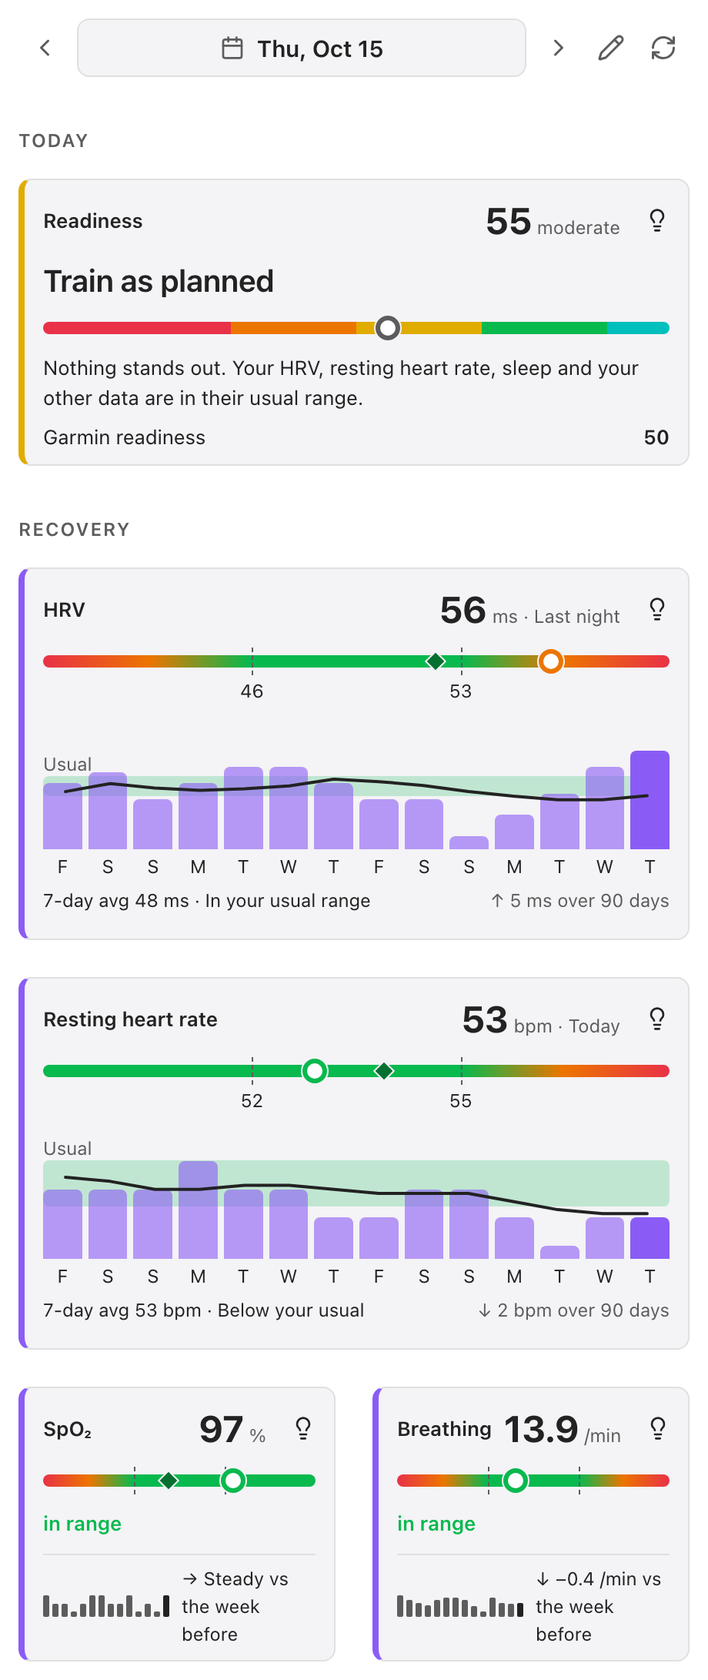
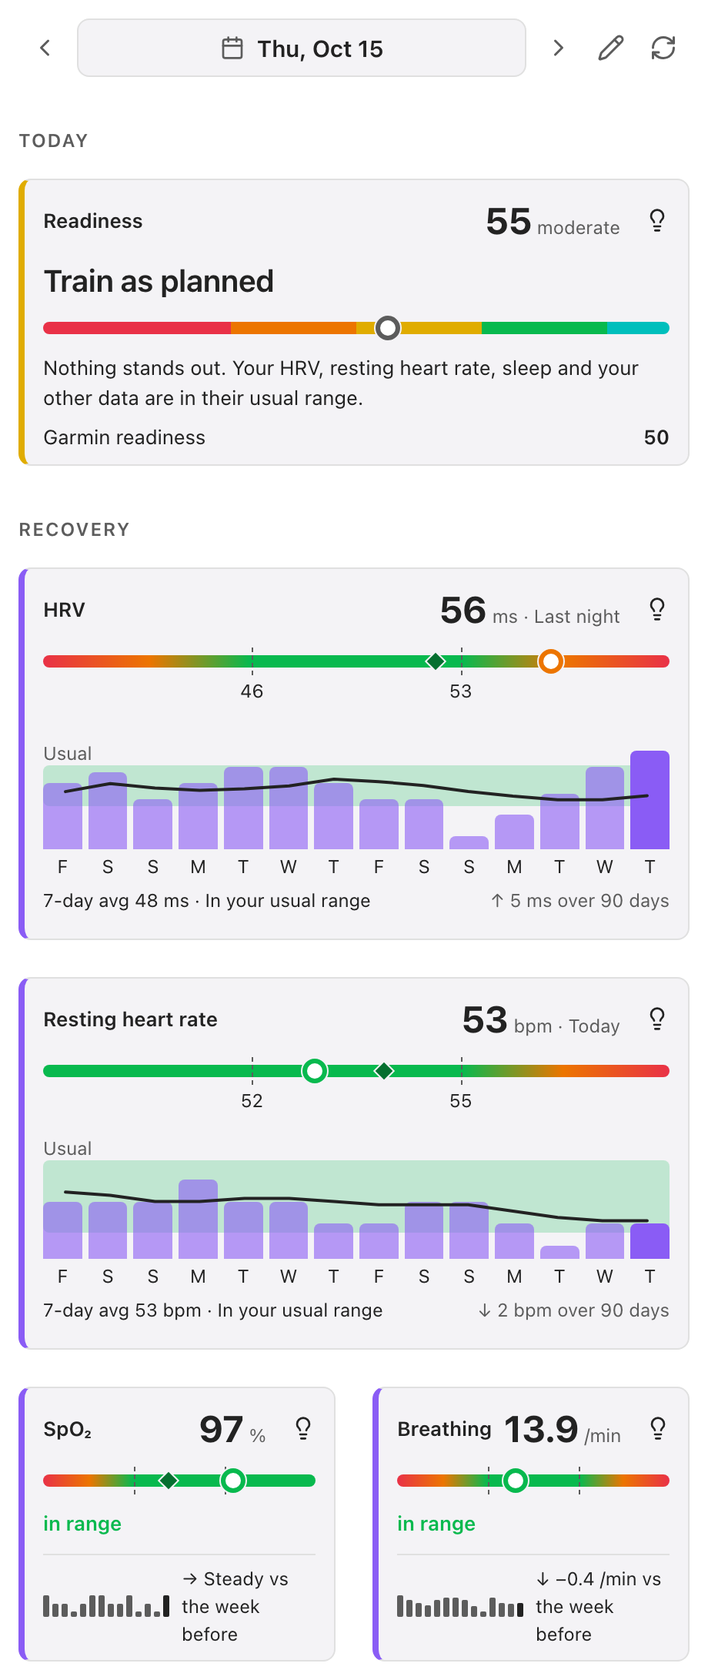
Week band as wide as the range bar's usual range (one standard deviation)

diff --git a/src/panel/cards/today-card.ts b/src/panel/cards/today-card.ts
@@ -4,6 +4,7 @@ import { formatNumber } from "../format";
 import { insightText, type Insight } from "../insights/registry";
 import { Signals } from "../insights/signals";
 import { pairedDays } from "../stats";
+import { USUAL_SD } from "../week";
 import type { DayIndex } from "../index";
 import { computeBattery } from "./battery-card";
 import { computeStress } from "./stress-card";
@@ -64,15 +65,15 @@ const clamp = (v: number, lo: number, hi: number): number => Math.min(hi, Math.m
 /** Where a day with no sign of strain or of a good recovery lands: the lower end of "moderate" would call every ordinary day tired. */
 const NEUTRAL_SCORE = 60;
 
-/** HRV is judged on the 7-night average in units of the smallest worthwhile change (half a standard deviation): the 7-night z counts double. */
+/** The average of 7 nights swings less than one night, so its distance from the usual counts double in the score. */
 const SWC_PER_SD = 2;
-/** The week is low below the smallest worthwhile change under the usual. */
-const WEEK_LOW_Z = -0.5;
+/** The week is low when its average is below the usual range of a week (one standard deviation, the edge of the band on the HRV card). */
+const WEEK_LOW_Z = -USUAL_SD;
 /** A single night this far below the usual is flagged unless a hard session explains it. */
 const NIGHT_LOW_Z = -2;
 
 /**
- * Own readiness: 60 + 10 z(HRV; the 7-night average in units of 0.5 sd when there are 4 nights, else the night) - 7 z(resting heart rate) - 4 per hour of sleep debt (at most 3 h) + 0.25 (battery peak - usual,
+ * Own readiness: 60 + 10 z(HRV; twice the distance of the 7-night average when there are 4 nights, else the night) - 7 z(resting heart rate) - 4 per hour of sleep debt (at most 3 h) + 0.25 (battery peak - usual,
  * between -8 and +8), 0 to 100. The z values are held between -2 and 2: HRV and resting heart rate move together, so a
  * far-out pair is one signal counted twice. Everything that depends on the usual range is scaled by `trust`, which
  * is below 1 while that range rests on fewer than 21 days, so a young range pulls the score towards the neutral

diff --git a/src/i18n/de.ts b/src/i18n/de.ts
@@ -370,7 +370,7 @@ export const de: Record<TranslationKeys, string> = {
 	panelWeekNotEnough: "Zu wenige Tage in dieser Woche für einen Durchschnitt",
 	panelWeekGap: "Uhr aus · {n} Tage",
 	panelWeekLegendBand: "Üblich",
-	panelHrvExplain: "Die Herzfrequenzvariabilität (HRV) ist die Schwankung zwischen den Herzschlägen und zeigt, wie gut du dich erholst. Eine einzelne Nacht kann stark schwanken, deshalb zeigt das Diagramm die letzten 14 Nächte mit dem Durchschnitt der letzten 7 Nächte als Linie. Das grüne Band ist das Übliche für deine Woche: dein eigener Durchschnitt der Nächte davor plus/minus eine halbe Standardabweichung. Dein üblicher Bereich für eine einzelne Nacht ist der Durchschnitt der letzten 30 Tage plus/minus eine Standardabweichung. Eine Nacht ohne Uhr wird ausgelassen und nie als niedrig gezählt. Werte weit außerhalb sind ein Anlass zum Hinsehen, keine Diagnose. Das ist keine medizinische Beratung.",
+	panelHrvExplain: "Die Herzfrequenzvariabilität (HRV) ist die Schwankung zwischen den Herzschlägen und zeigt, wie gut du dich erholst. Eine einzelne Nacht kann stark schwanken, deshalb zeigt das Diagramm die letzten 14 Nächte mit dem Durchschnitt der letzten 7 Nächte als Linie. Das grüne Band ist das Übliche für deine Woche: dein eigener Durchschnitt der Nächte davor plus/minus eine Standardabweichung. Dein üblicher Bereich für eine einzelne Nacht ist der Durchschnitt der letzten 30 Tage plus/minus eine Standardabweichung. Eine Nacht ohne Uhr wird ausgelassen und nie als niedrig gezählt. Werte weit außerhalb sind ein Anlass zum Hinsehen, keine Diagnose. Das ist keine medizinische Beratung.",
 	panelRestingHrTitle: "Ruhepuls",
 	panelRestingHrExplain: "Der Ruhepuls ist dein niedrigster stabiler Puls in Ruhe. Dein üblicher Bereich ist der Durchschnitt der letzten 30 Tage plus/minus eine Standardabweichung. Ein Wert deutlich darüber kann mit Stress, schlechtem Schlaf, Krankheit oder Müdigkeit zusammenhängen; ein niedrigerer Wert ist normalerweise unproblematisch. Das ist keine medizinische Beratung.",
 	panelSectionRecovery: "Erholung",

diff --git a/tests/panel-today.test.ts b/tests/panel-today.test.ts
@@ -47,7 +47,7 @@ describe("the readiness score", () => {
 	});
 
 	it("adds 10 per standard deviation of HRV and subtracts 7 per standard deviation of resting heart rate", async () => {
-		// the 7-night average counts in units of the smallest worthwhile change, half a standard deviation: +0.5 sd of HRV is +1 unit = 10
+		// the 7-night average counts double: +0.5 sd of HRV moves the score by 10
 		expect(computeToday(await index({ hrv: weekZ(0.5), resting_hr: 52 }), END, null).score).toBe(70);
 		expect(computeToday(await index({ hrv: USUAL, resting_hr: 54 }), END, null).score).toBe(53); // +1 sd of resting heart rate
 		expect(computeToday(await index({ hrv: weekZ(0.5), resting_hr: 50 }), END, null).score).toBe(77);
@@ -142,9 +142,9 @@ describe("the flags", () => {
 	const flags = async (today: Fm, rest: (ago: number) => Fm = () => ({})) => computeToday(await index({ hrv: USUAL, resting_hr: 52, ...today }, rest), END, null).flags;
 
 	it("flags a low HRV and a high resting heart rate beyond one standard deviation", async () => {
-		// the 7-night average: flagged half a standard deviation (the smallest worthwhile change) below the usual
-		expect(await flags({ hrv: weekZ(-0.6) })).toEqual(["hrv"]);
-		expect(await flags({ hrv: weekZ(-0.4) })).toEqual([]);
+		// the 7-night average: flagged below the usual range of a week, one standard deviation under the baseline
+		expect(await flags({ hrv: weekZ(-1.2) })).toEqual(["hrv"]);
+		expect(await flags({ hrv: weekZ(-0.8) })).toEqual([]);
 		expect(await flags({ resting_hr: 55 })).toEqual(["rhr"]);
 		expect(await flags({ resting_hr: 53.5 })).toEqual([]);
 	});
@@ -362,7 +362,7 @@ describe("the week, the single night and the hard session", () => {
 	});
 
 	it("is not fooled by a low week hiding in its own baseline", async () => {
-		const m = computeToday(await index({ hrv: weekZ(-1), resting_hr: 52 }), END, null);
+		const m = computeToday(await index({ hrv: weekZ(-1.5), resting_hr: 52 }), END, null);
 		expect(m.flags).toEqual(["hrv"]);
 		expect(m.facts.hrvWeek).toMatchObject({ nights: 7, low: true });
 	});

diff --git a/src/i18n/fr.ts b/src/i18n/fr.ts
@@ -369,7 +369,7 @@ export const fr: Record<TranslationKeys, string> = {
 	panelWeekNotEnough: "Pas assez de jours cette semaine pour une moyenne",
 	panelWeekGap: "Montre non portée · {n} jours",
 	panelWeekLegendBand: "Habituel",
-	panelHrvExplain: "La variabilité de la fréquence cardiaque (VFC) est la variation entre les battements et reflète votre récupération. Une nuit peut beaucoup varier : le graphique montre donc les 14 dernières nuits avec la moyenne des 7 dernières en ligne. La bande verte est l’habituel de votre semaine : votre propre moyenne des nuits précédentes, plus ou moins un demi-écart type. Votre plage habituelle pour une nuit est la moyenne des 30 derniers jours plus ou moins un écart type. Une nuit sans la montre est ignorée, jamais comptée comme basse. Les valeurs très éloignées méritent attention, pas un diagnostic. Ceci n’est pas un avis médical.",
+	panelHrvExplain: "La variabilité de la fréquence cardiaque (VFC) est la variation entre les battements et reflète votre récupération. Une nuit peut beaucoup varier : le graphique montre donc les 14 dernières nuits avec la moyenne des 7 dernières en ligne. La bande verte est l’habituel de votre semaine : votre propre moyenne des nuits précédentes, plus ou moins un écart type. Votre plage habituelle pour une nuit est la moyenne des 30 derniers jours plus ou moins un écart type. Une nuit sans la montre est ignorée, jamais comptée comme basse. Les valeurs très éloignées méritent attention, pas un diagnostic. Ceci n’est pas un avis médical.",
 	panelRestingHrTitle: "Fréquence cardiaque au repos",
 	panelRestingHrExplain: "La fréquence cardiaque au repos est votre pouls stable le plus bas au repos. Votre plage habituelle est la moyenne des 30 derniers jours plus ou moins un écart type. Une valeur nettement supérieure peut accompagner le stress, un mauvais sommeil, une maladie ou la fatigue ; une valeur plus basse est en général normale. Ceci n’est pas un avis médical.",
 	panelSectionRecovery: "Récupération",

diff --git a/src/panel/week.ts b/src/panel/week.ts
@@ -15,8 +15,11 @@ const BASELINE_DAYS = 60;
 const BASELINE_MIN = 14;
 /** Smallest spread of ln(value): about 4 percent of the level (HRV), so a very steady sleeper does not get a razor-thin band. */
 export const LN_SD_FLOOR = 0.04;
-/** The band is the smallest worthwhile change: half a standard deviation of the baseline (Plews et al. 2012, Javaloyes et al. 2019). */
-export const SWC_SD = 0.5;
+/**
+ * The usual range of a week is one standard deviation of the baseline, the same width as the range bar of the night, so "usual" means one thing on the card.
+ * The research criterion (smallest worthwhile change, Plews et al. 2012, Javaloyes et al. 2019) is half of that; this card is deliberately less sensitive, to give fewer false alarms.
+ */
+export const USUAL_SD = 1;
 /** A run of this many nights without a value is drawn as a gap. */
 const GAP_MIN = 3;
 
@@ -33,7 +36,7 @@ export interface WeekModel {
 	avg: (number | null)[];
 	/** Nights with a value among the 7 ending on the shown night. */
 	coverage: number;
-	/** Usual range for a week in ms: the baseline mean +/- half a standard deviation, null while the baseline is too young. */
+	/** Usual range for a week in ms: the baseline mean +/- one standard deviation, null while the baseline is too young. */
 	band: { low: number; mean: number; high: number } | null;
 	/** The 7-night average of the shown night, in ms. */
 	average: number | null;
@@ -71,7 +74,7 @@ export function computeWeek(index: DayIndex, key: string, date: string, sdFloor:
 		if (v !== null) earlier.push(v);
 	}
 	const b = baseline(earlier, BASELINE_MIN, sdFloor);
-	const band = b ? { low: Math.exp(b.mean - SWC_SD * b.sd), mean: Math.exp(b.mean), high: Math.exp(b.mean + SWC_SD * b.sd) } : null;
+	const band = b ? { low: Math.exp(b.mean - USUAL_SD * b.sd), mean: Math.exp(b.mean), high: Math.exp(b.mean + USUAL_SD * b.sd) } : null;
 
 	const last = avgLn(nights.length - 1 + offset);
 	const coverage = nights.slice(-WEEK_WINDOW).filter((v) => v !== null).length;

diff --git a/src/i18n/es.ts b/src/i18n/es.ts
@@ -369,7 +369,7 @@ export const es: Record<TranslationKeys, string> = {
 	panelWeekNotEnough: "Pocos días esta semana para un promedio",
 	panelWeekGap: "Reloj sin usar · {n} días",
 	panelWeekLegendBand: "Habitual",
-	panelHrvExplain: "La variabilidad de la frecuencia cardíaca (VFC) es la variación entre latidos y refleja lo bien que te recuperas. Una noche puede variar mucho, por eso el gráfico muestra las últimas 14 noches con el promedio de las últimas 7 como una línea. La banda verde es lo habitual para tu semana: tu propio promedio de las noches anteriores más o menos media desviación estándar. Tu rango habitual para una noche es el promedio de los últimos 30 días más o menos una desviación estándar. Una noche sin el reloj se omite y nunca cuenta como baja. Los valores muy fuera merecen atención, no un diagnóstico. Esto no es un consejo médico.",
+	panelHrvExplain: "La variabilidad de la frecuencia cardíaca (VFC) es la variación entre latidos y refleja lo bien que te recuperas. Una noche puede variar mucho, por eso el gráfico muestra las últimas 14 noches con el promedio de las últimas 7 como una línea. La banda verde es lo habitual para tu semana: tu propio promedio de las noches anteriores más o menos una desviación estándar. Tu rango habitual para una noche es el promedio de los últimos 30 días más o menos una desviación estándar. Una noche sin el reloj se omite y nunca cuenta como baja. Los valores muy fuera merecen atención, no un diagnóstico. Esto no es un consejo médico.",
 	panelRestingHrTitle: "Frecuencia cardíaca en reposo",
 	panelRestingHrExplain: "La frecuencia cardíaca en reposo es tu pulso estable más bajo en reposo. Tu rango habitual es el promedio de los últimos 30 días más o menos una desviación estándar. Un valor muy por encima puede acompañar al estrés, el mal sueño, una enfermedad o el cansancio; uno más bajo suele estar bien. Esto no es un consejo médico.",
 	panelSectionRecovery: "Recuperación",

diff --git a/src/i18n/ja.ts b/src/i18n/ja.ts
@@ -369,7 +369,7 @@ export const ja: Record<TranslationKeys, string> = {
 	panelWeekNotEnough: "今週は平均を出すには日数が足りません",
 	panelWeekGap: "未装着 · {n}日",
 	panelWeekLegendBand: "通常",
-	panelHrvExplain: "心拍変動（HRV）は心拍間隔のゆらぎで、回復の度合いを反映します。1晩だけではぶれやすいため、グラフには直近14晩と、直近7晩の平均を線で表示します。緑の帯はその週の通常範囲で、その前の晩の自分の平均±標準偏差の半分です。1晩の通常範囲は、直近30日の平均±標準偏差1つ分です。時計を着けなかった晩は除外され、低い晩としては数えません。大きく外れた値は診断ではなく気づきの目安です。医療上のアドバイスではありません。",
+	panelHrvExplain: "心拍変動（HRV）は心拍間隔のゆらぎで、回復の度合いを反映します。1晩だけではぶれやすいため、グラフには直近14晩と、直近7晩の平均を線で表示します。緑の帯はその週の通常範囲で、その前の晩の自分の平均±標準偏差1つ分です。1晩の通常範囲は、直近30日の平均±標準偏差1つ分です。時計を着けなかった晩は除外され、低い晩としては数えません。大きく外れた値は診断ではなく気づきの目安です。医療上のアドバイスではありません。",
 	panelRestingHrTitle: "安静時心拍数",
 	panelRestingHrExplain: "安静時心拍数は、安静時の最も低く安定した心拍数です。通常の範囲は、直近30日の平均±標準偏差1つ分です。大きく上回る場合は、ストレス、睡眠不足、病気、疲れなどが関係していることがあります。低い値は通常問題ありません。医療上のアドバイスではありません。",
 	panelSectionRecovery: "回復",

diff --git a/src/i18n/en.ts b/src/i18n/en.ts
@@ -368,7 +368,7 @@ export const en = {
 	panelWeekNotEnough: "Not enough days this week for an average",
 	panelWeekGap: "Watch off · {n} days",
 	panelWeekLegendBand: "Usual",
-	panelHrvExplain: "Heart rate variability (HRV) is the variation between heartbeats and reflects how well you recover. One night can swing, so the chart shows the last 14 nights with the average of the last 7 nights as a line. The green band is what is usual for your week: your own average of the nights before it, plus or minus half a standard deviation. Your usual range for a single night is the average of the last 30 days plus or minus one standard deviation. A night without the watch is left out, never counted as low. Values far outside are worth noticing, not diagnosing. This is not medical advice.",
+	panelHrvExplain: "Heart rate variability (HRV) is the variation between heartbeats and reflects how well you recover. One night can swing, so the chart shows the last 14 nights with the average of the last 7 nights as a line. The green band is what is usual for your week: your own average of the nights before it, plus or minus one standard deviation. Your usual range for a single night is the average of the last 30 days plus or minus one standard deviation. A night without the watch is left out, never counted as low. Values far outside are worth noticing, not diagnosing. This is not medical advice.",
 	panelRestingHrTitle: "Resting heart rate",
 	panelRestingHrExplain: "Resting heart rate is your lowest steady heart rate while you are still. Your usual range is the average of the last 30 days plus or minus one standard deviation. A value well above it can come with stress, poor sleep, illness or fatigue. A lower value is normally fine. This is not medical advice.",
 	panelSectionRecovery: "Recovery",

diff --git a/src/i18n/zh.ts b/src/i18n/zh.ts
@@ -369,7 +369,7 @@ export const zh: Record<TranslationKeys, string> = {
 	panelWeekNotEnough: "本周的天数太少，无法计算平均值",
 	panelWeekGap: "未佩戴 · {n} 天",
 	panelWeekLegendBand: "常规",
-	panelHrvExplain: "心率变异性（HRV）是心跳间隔的变化，反映你的恢复情况。单晚波动很大，所以图表显示最近 14 晚，并用一条线表示最近 7 晚的平均值。绿色区带是你这一周的常规范围：此前几晚的个人平均值加减半个标准差。单晚的常规范围是最近 30 天的平均值加减一个标准差。没戴手表的夜晚会被忽略，不会算作偏低。明显偏离的数值值得留意，但不是诊断。这不是医疗建议。",
+	panelHrvExplain: "心率变异性（HRV）是心跳间隔的变化，反映你的恢复情况。单晚波动很大，所以图表显示最近 14 晚，并用一条线表示最近 7 晚的平均值。绿色区带是你这一周的常规范围：此前几晚的个人平均值加减一个标准差。单晚的常规范围是最近 30 天的平均值加减一个标准差。没戴手表的夜晚会被忽略，不会算作偏低。明显偏离的数值值得留意，但不是诊断。这不是医疗建议。",
 	panelRestingHrTitle: "静息心率",
 	panelRestingHrExplain: "静息心率是你在休息时最低且稳定的心率。常规范围是最近 30 天的平均值加减一个标准差。明显偏高可能与压力、睡眠不足、生病或疲劳有关；偏低通常没有问题。这不是医疗建议。",
 	panelSectionRecovery: "恢复",

diff --git a/tests/panel-week.test.ts b/tests/panel-week.test.ts
@@ -50,7 +50,7 @@ describe("computeWeek", () => {
 		expect(w.z!).toBeLessThan(-3);
 	});
 
-	it("builds the band as the baseline mean +/- half a standard deviation, on the log scale", async () => {
+	it("builds the band as the baseline mean +/- one standard deviation, on the log scale", async () => {
 		const w = await weekOf((ago) => (ago % 2 === 0 ? 50 : 70));
 		const b = w.band!;
 		expect(b.low).toBeLessThan(b.mean);
@@ -59,9 +59,9 @@ describe("computeWeek", () => {
 		expect(b.high / b.mean).toBeCloseTo(b.mean / b.low, 6);
 	});
 
-	it("keeps the band at least 4 percent wide for a very steady sleeper", async () => {
+	it("keeps the band at least 8 percent wide for a very steady sleeper", async () => {
 		const w = await weekOf(() => 60);
-		expect(w.band!.high / w.band!.mean).toBeCloseTo(Math.exp(0.02), 6);
+		expect(w.band!.high / w.band!.mean).toBeCloseTo(Math.exp(0.04), 6);
 	});
 
 	it("has no band and no judgement while the baseline rests on fewer than 14 nights", async () => {

diff --git a/docs/panel-insights.md b/docs/panel-insights.md
@@ -21,9 +21,9 @@ The interpretation is deliberately kept under the light bulb so the cards stay u
 
 The Today card is a rule of thumb taken from the original concept, **not a validated score**. It is not calibrated against Garmin's readiness (which is shown next to it when the watch provides it).
 
-- **Score (0 to 100):** 60 + t x (10 x z(HRV) - 7 x z(resting heart rate) - 4 x sleep debt in hours (at most 3) + 0.25 x (body battery peak - usual peak, between -8 and +8)). A day with nothing unusual scores 60, so an ordinary day is moderate, not tired. The z values are held between -2 and 2 (HRV and resting heart rate move together, so a far-out pair is one signal counted twice) and use the user's own 30 day range. **HRV is judged on the 7-night average, not on one night:** z(HRV) is 2 x z7, where z7 is the distance of the geometric mean of the last 7 nights (the shown night included) from the baseline mean in standard deviations of ln(HRV), so a distance of 0.5 standard deviations (the smallest worthwhile change, see "Where the numbers come from") counts as 1 and moves the score by 10. With fewer than 4 of the 7 nights, or without a baseline of 14 nights, it falls back to the shown night against the 30 day range; a missing body battery leaves its term out. `t` is the trust in that range: the days with both HRV and resting heart rate divided by 21, at most 1, so a young range (a new watch, or a new account) pulls the score towards 60 instead of swinging it. The sleep debt is counted against the sleep the person usually gets (the median of the last 28 nights, kept between an hour under the need and the need; see the Sleep card), not against the general need, which would charge a short sleeper the same debt every day. `t` counts the days of the last 30 on which HRV *and* resting heart rate were both measured, so two ranges that cover different weeks (a watch that changed in between) do not add up to one. Without HRV, resting heart rate or the sleep debt there is no own score; neither is there one with fewer than 5 such days, nor without last night's sleep (a missing night would count as no debt and raise the score). When some of the last 7 nights have no sleep data the debt is a lower bound, which the card says ("The sleep debt rests on 5 of 7 nights ..."). The weights are a judgment call, not fitted to Garmin's readiness.
+- **Score (0 to 100):** 60 + t x (10 x z(HRV) - 7 x z(resting heart rate) - 4 x sleep debt in hours (at most 3) + 0.25 x (body battery peak - usual peak, between -8 and +8)). A day with nothing unusual scores 60, so an ordinary day is moderate, not tired. The z values are held between -2 and 2 (HRV and resting heart rate move together, so a far-out pair is one signal counted twice) and use the user's own 30 day range. **HRV is judged on the 7-night average, not on one night:** z(HRV) is 2 x z7, where z7 is the distance of the geometric mean of the last 7 nights (the shown night included) from the baseline mean in standard deviations of ln(HRV), counted double (the average of 7 nights swings less than one night), so a distance of 0.5 standard deviations moves the score by 10; it is held between -2 and 2 like the others. With fewer than 4 of the 7 nights, or without a baseline of 14 nights, it falls back to the shown night against the 30 day range; a missing body battery leaves its term out. `t` is the trust in that range: the days with both HRV and resting heart rate divided by 21, at most 1, so a young range (a new watch, or a new account) pulls the score towards 60 instead of swinging it. The sleep debt is counted against the sleep the person usually gets (the median of the last 28 nights, kept between an hour under the need and the need; see the Sleep card), not against the general need, which would charge a short sleeper the same debt every day. `t` counts the days of the last 30 on which HRV *and* resting heart rate were both measured, so two ranges that cover different weeks (a watch that changed in between) do not add up to one. Without HRV, resting heart rate or the sleep debt there is no own score; neither is there one with fewer than 5 such days, nor without last night's sleep (a missing night would count as no debt and raise the score). When some of the last 7 nights have no sleep data the debt is a lower bound, which the card says ("The sleep debt rests on 5 of 7 nights ..."). The weights are a judgment call, not fitted to Garmin's readiness.
 - **Bands:** 0-29 poor, 30-49 low, 50-69 moderate, 70-89 high, 90-100 prime.
-- **Flags:** HRV low (the 7-night average more than 0.5 standard deviations below the baseline, or the shown night more than 2 standard deviations below the 30 day range when no hard session explains it; with fewer than 4 nights of the week, the shown night more than 1 standard deviation below), resting heart rate high (not raised the morning after a hard session), sleep debt (against the usual sleep) above 2 hours, body battery peak more than 15 below usual, stress more than 10 above the 7 day average, breathing more than 1.5 standard deviations up, SpO2 below 94 percent, load ratio above 1.5.
+- **Flags:** HRV low (the 7-night average below the usual range of a week (more than 1 standard deviation below the baseline), or the shown night more than 2 standard deviations below the 30 day range when no hard session explains it; with fewer than 4 nights of the week, the shown night more than 1 standard deviation below), resting heart rate high (not raised the morning after a hard session), sleep debt (against the usual sleep) above 2 hours, body battery peak more than 15 below usual, stress more than 10 above the 7 day average, breathing more than 1.5 standard deviations up, SpO2 below 94 percent, load ratio above 1.5.
 - **Verdict:** rest (day off, walk and mobility) for 3 or more flags, raised breathing together with a high resting heart rate, or band poor or low once the range rests on 21 days (before that a low band alone gives "go easy"); train hard for band high or better with no flag; train as planned for band high or better with one flag or band moderate with none; go easy (zone 2) otherwise. **The morning after a hard session** the verdict is at most "go easy" (a rest verdict stays), and the night's low HRV and raised resting heart rate are not flagged. A hard session is one of yesterday that is not a recovery session and whose intensity is known (heart rate with a birth year, or at least 10 earlier sessions) with an intensity step of 3 or more, or a load (minutes times the intensity factor) of 70 or more. Without a known intensity the minutes alone do not make a session hard. The threshold is a starting value, not a validated one.
 
 ## How to add or change an interpretation
@@ -36,7 +36,7 @@ The Today card is a rule of thumb taken from the original concept, **not a valid
 ## Where the numbers come from
 
 - *Usual range*: the mean and standard deviation of the 30 days before the shown day, from 5 days of data on. From 8 values on, a value more than 5 robust spreads from the median (1.4826 times the median absolute deviation, but at least the floor below) is left out of the mean and the spread, unless that would leave out a quarter or more of the values (then the days are of two kinds, for example before and after a new watch, and none is an outlier): one sensor error or one day of fever would otherwise widen the range for a month. The trend line stays a plain mean of the last 7 days against the 7 before, and the 14 bars show every value, so a freak value stays visible there. Sleep stages count only nights with more than 0 minutes of the stage (a watch that does not record a stage sends 0, which is no reading). A number typed into a text property ("8000") is read as the number. (standard deviation floors: HRV 2 ms, resting heart rate 1.5 bpm, SpO2 0.7 percent, breathing 0.4 per minute, stress 5, steps 500, body battery peak 5).
-- *HRV week (HRV card and Today card)*: the 14 bars are the last 14 nights; the line is the rolling average of 7 nights (geometric mean, that is the mean of ln(HRV), shown back in ms), drawn from 3 nights of the 7 and judged by Today from 4. The usual range for a week is the baseline mean plus or minus half a standard deviation (the smallest worthwhile change). The baseline is ln(HRV) of the up to 60 nights before the 7 of the week (from 14 nights on, with the same outlier rule as the usual range), so a low week cannot pull down the range it is compared with; the spread is at least 0.04 (about 4 percent of the level). Nights without a value are left out, never counted as low; a run of 3 or more is drawn as a dashed box. The use of a 7 day rolling mean of ln RMSSD against a smallest worthwhile change follows Plews et al. 2012 and Javaloyes et al. 2019; three valid nights a week give a weekly mean that tracks the full week (Plews et al. 2014, *Int J Sports Physiol Perform* 9:783-790, not linked because the page was not opened). Today asks for 4 because overnight values are noisier than the morning readings of those studies. **Limits:** the studies are in athletes with morning RMSSD, Garmin sends an overnight average; reviews find the benefit of HRV-guided training small and not clear, and the best baseline is still debated. The numbers are starting values, not validated thresholds.
+- *HRV week (HRV card and Today card)*: the 14 bars are the last 14 nights; the line is the rolling average of 7 nights (geometric mean, that is the mean of ln(HRV), shown back in ms), drawn from 3 nights of the 7 and judged by Today from 4. The usual range for a week is the baseline mean plus or minus one standard deviation, the same width as the range bar of the night, so "usual" means one thing on the card. The research criterion, the smallest worthwhile change, is half a standard deviation; this card is deliberately less sensitive for fewer false alarms, which makes it later to say "below" than the studies' rule. The baseline is ln(HRV) of the up to 60 nights before the 7 of the week (from 14 nights on, with the same outlier rule as the usual range), so a low week cannot pull down the range it is compared with; the spread is at least 0.04 (about 4 percent of the level). Nights without a value are left out, never counted as low; a run of 3 or more is drawn as a dashed box. The use of a 7 day rolling mean of ln RMSSD against a band around the person's own baseline follows Plews et al. 2012 and Javaloyes et al. 2019; three valid nights a week give a weekly mean that tracks the full week (Plews et al. 2014, *Int J Sports Physiol Perform* 9:783-790, not linked because the page was not opened). Today asks for 4 because overnight values are noisier than the morning readings of those studies. **Limits:** the studies are in athletes with morning RMSSD, Garmin sends an overnight average; reviews find the benefit of HRV-guided training small and not clear, and the best baseline is still debated. The numbers are starting values, not validated thresholds.
 - *Load ratio*: the last 7 days over the weekly average of the last 28 days, each session weighted by its intensity (see the Load balance card). Without a birth year the intensity is where the session's average heart rate ranks among the last 90 sessions, counting half of the sessions with exactly the same heart rate, so a session that equals all the others is a middle one, not the hardest. The average is taken over the days of the 28 that have a note or history record, so a history that is only two or three weeks old is not divided by four weeks; with fewer than 14 such days no ratio is shown.
 - *Sleep need and debt*: 7 hours (8 for ages 14 to 17 and 9 for ages 10 to 13 when a birth year is set); debt is the shortfall summed over the last 7 nights.
 - *Tonight's aim and the debt on the card*: the Sleep card does not ask for more than a person's life allows. With at least 3 earlier nights before the coming weekday (up to the last 8), the aim is the upper quarter of those nights, held between the need minus 1 hour (6 hours for an adult, 7 for ages 14 to 17, 8 for ages 10 to 13) and the need, plus a quarter of the debt (at most 30 minutes), rounded up to 15 minutes. Without that pattern it stays the need plus a quarter of the debt (at most 1 hour). The debt on the card is counted against what the person usually sleeps: the median of the last 28 nights (from 10 nights on), held between the same floor and the need; the interpretations above still count against the general need. The floor is a plausibility limit chosen so the card never presents a very short night as a goal; it is not a validated threshold.
@@ -79,7 +79,7 @@ See also: [panel-cards.md](panel-cards.md) (what each card shows and how it is c
 ### today_flag_hrv
 
 - **Card:** today
-- **Trigger:** HRV is below the usual: the 7-night average more than 0.5 standard deviations under the baseline is shown as today_week_low; this plain sentence is for a single night more than 2 standard deviations below the 30 day range with no hard session, or, with fewer than 4 nights in the week, more than 1 standard deviation below.
+- **Trigger:** HRV is below the usual: the 7-night average below the usual range of a week (more than 1 standard deviation under the baseline) is shown as today_week_low; this plain sentence is for a single night more than 2 standard deviations below the 30 day range with no hard session, or, with fewer than 4 nights in the week, more than 1 standard deviation below.
 - **Text (English):** HRV is below your usual range.
 - **Basis:** Part of the Today verdict. HRV is one of the heart rate measures that follow training status.
 - **References:** [buchheit](https://doi.org/10.3389/fphys.2014.00073)
@@ -95,9 +95,9 @@ See also: [panel-cards.md](panel-cards.md) (what each card shows and how it is c
 ### today_week_low
 
 - **Card:** today
-- **Trigger:** At least 4 of the last 7 nights have an HRV and their geometric mean is more than 0.5 standard deviations (of ln HRV) below the mean of the nights before that week.
+- **Trigger:** At least 4 of the last 7 nights have an HRV and their geometric mean is more than 1 standard deviation (of ln HRV) below the mean of the nights before that week.
 - **Text (English):** Your HRV averaged {avg} ms over the last {n} nights, below your usual range for a week. One night can dip, but a whole week points to a lasting load, so keep the next days easy.
-- **Basis:** A 7-night rolling average of HRV that falls under the smallest worthwhile change below the person's own baseline is the criterion used in HRV-guided training to lower intensity; one night is noisier than the week. It is a signal, not a diagnosis.
+- **Basis:** A 7-night rolling average of HRV that falls below the person's own baseline range is the criterion used in HRV-guided training to lower intensity (the studies use a narrower band, half a standard deviation; this card uses one, so it speaks up later); one night is noisier than the week. It is a signal, not a diagnosis.
 - **References:** [plews](https://pubmed.ncbi.nlm.nih.gov/22367011/); [javaloyes](https://dspace.umh.es/handle/11000/30650)
 
 ### today_flag_rhr

diff --git a/CHANGELOG.md b/CHANGELOG.md
@@ -1,5 +1,11 @@
 # Changelog
 
+## 0.14.0-beta.4
+
+### Changed
+
+- **The green "Usual" band of the week chart is as wide as the range bar's usual range** (one standard deviation, was half), so it is bigger and "usual" means one thing on the card. The HRV flag in Readiness and "Below your usual" now use the same edges, so they speak up later than before (the research criterion is the narrower half standard deviation; this card is deliberately less sensitive). The score still counts the 7-night average double.
+
 ## 0.14.0-beta.3
 
 ### Added
